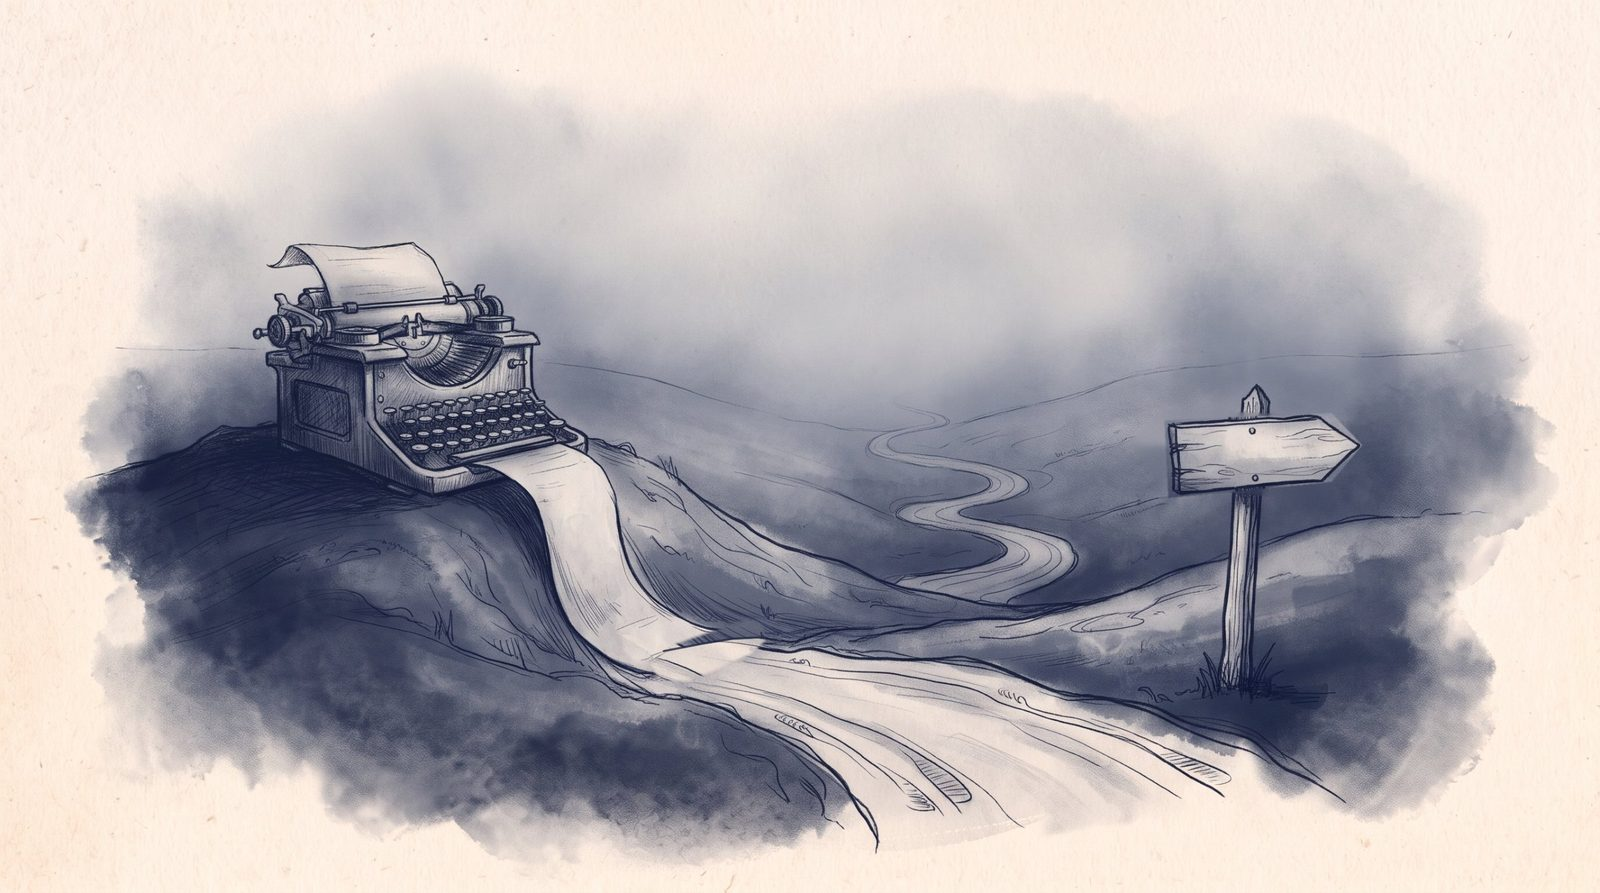
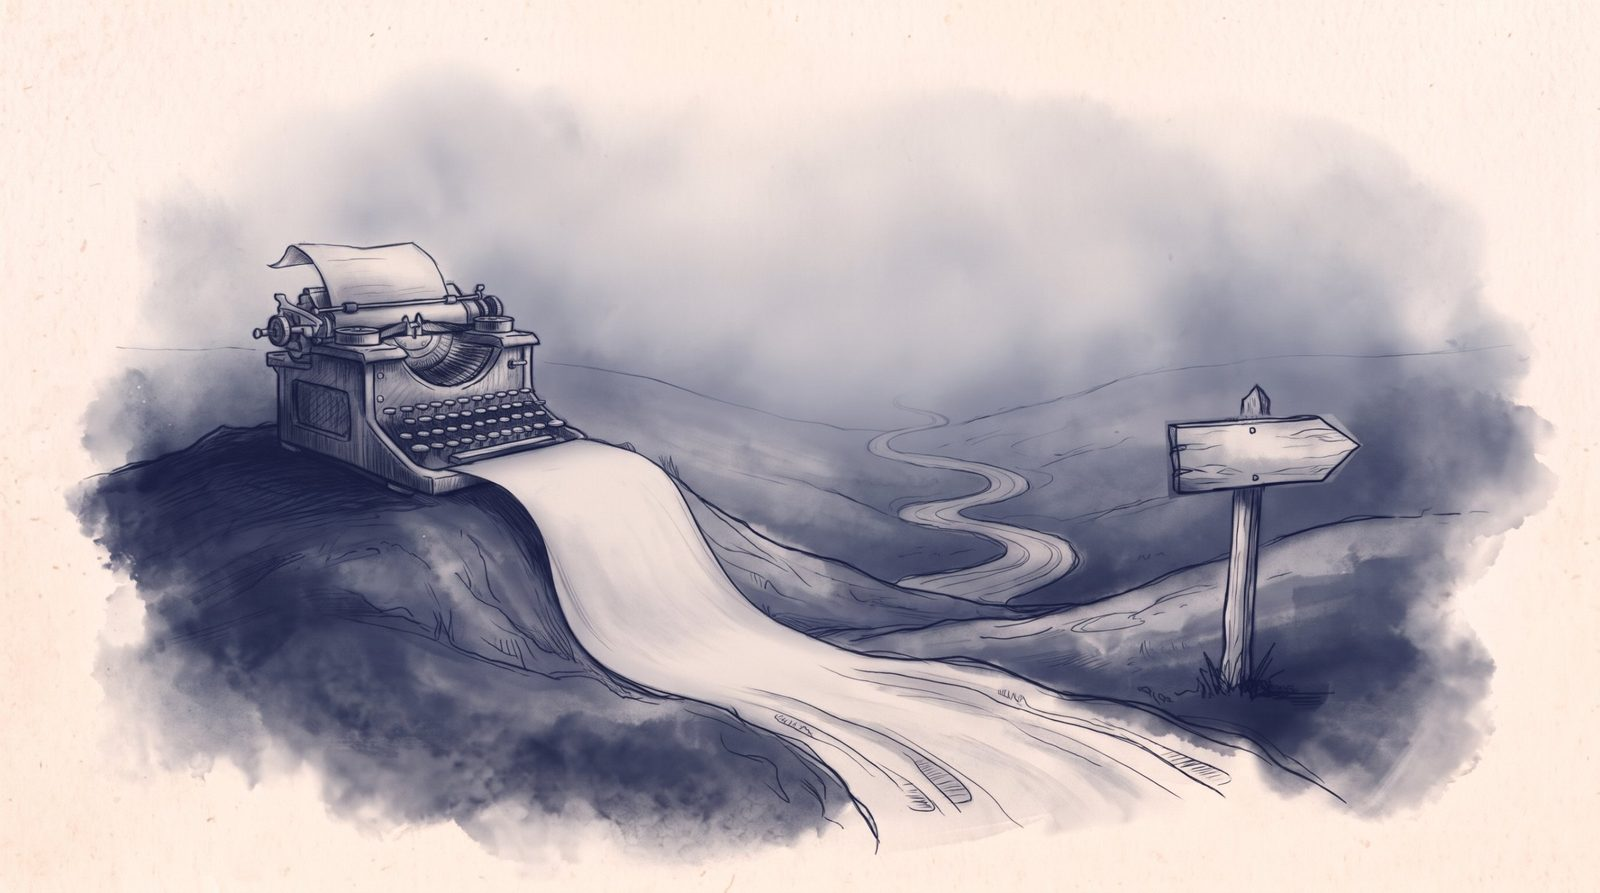
Kdo drží kroniku: nová verze psacího stroje, papír plynule navazuje na cestu
Claude-Session: https://claude.ai/code/session_01B7obWLKHHEWxurZ5a1svnf

diff --git a/docs/obrazky-putovani.md b/docs/obrazky-putovani.md
@@ -25,7 +25,7 @@ Stav 2026-11-23: styl nalezený po pěti kolech zkoušek (náhled `/putovani/nav
 - Masky: `maska/<slug>-N.png` podle tuše pro tmavý motiv (`python3 scripts/ink-masks.py`, pak zkopírovat z `navrh-obrazku/maska/`, nebo upravit cestu ve skriptu), `maska/freska.png` obecná.
 - Které putování obrázky má: `READY` v `src/lib/trail-images.ts`. Obrázky se ukážou jen u schválené eseje.
 - Rejstřík `/putovani/` má rozvržení karet ve dvou sloupcích s obrázkem nahoře (C, vybráno ze tří variant: A obraz za textem, B střídavé desky). Dokud nemají obrázky všechna putování, stojí vedle karty s obrázkem textové karty.
-- Na webu (2026-11-23): Hra ví, že ji hraješ (městečko na jevišti s roztrženým namalovaným nebem; postavička vylezlá z ilustrace v knize; stín, který vypadl z obrazu na podlahu); Na mrtvole boha (tři: prázdný plášť na trůnu držený provazy davu; trůn, kterým prorůstá bříza; jablko s žebry místo jádřince); Netvor v zrcadle (zatím jeden: stopy ve sněhu, které se z bot mění v tlapy); Mluví už jen mrtví (tři: prázdný kabát, který ukazuje cestu; můra s křídly z deníku; potopená hlava sochy, z níž stoupají listy dopisu k loďce); Uvězněni v kruhu (tři: klíč stočený do kruhu se stínem rovného klíče; vajíčko ve vajíčku; z kouře dohořelé sirky nová sirka); Bohové jako břemeno (katedrála ze žeber, kamenné víčko); Město, které dýchá (domy, které se otáčejí za chodcem; most z dlažby, kořenů, copů a prádla); Dům, ze kterého nejde odejít (měsíc jako zlatá klíčová dírka nad městečkem, okno uprostřed pláně s pokojem uvnitř). Válka, kterou nikdo nevyhraje (tři obrázky: prapory z hejn ptáků, kolotoč z děl, kavalerie z rozbitých hodin se svíčkou v temnu); Pod lhostejnými hvězdami (žebřík opřený o nebe s prázdnými botami a lucernou, gramofon, ze kterého se sypou hvězdy, u táboráku); Kdo za to může? (tři: prázdná rukavice ukazuje na zrcátko a odraz ukazuje zpět na diváka; koberec, pod jehož rohem je jáma se schody a koště z brků; z hranice srolovaných dopisů odplouvá kouř jako spící beránek, 2026-11-25); Kdo se to probudil? (tři: zamlžené zrcadlo nad umyvadlem, v jehož setřeném pruhu je další zrcadlo; dvě stejná křesla v pokoji rozděleném sklem, které prochází mincí na hraně; sklenice s pulcem, jehož stín na zdi jsou chapadla; 2026-11-25); Prokleté dědictví (tři: kolébka s korunou, jejíž stín je rakev, křížek na koruně vyretušovaný; řetěz z praskliny v zemi s otevřeným dětským poutem, hnědý nádech řetězu převedený do indiga; šperkovnice s náhrdelníkem z mléčných zubů; 2026-11-25); Křehká hranice svobodné vůle (tři: koleje shora, které se u výhybky rozdělí a zase spojí kolem kulatého jezírka, takže tvoří oko; prázdný obojek s vodítkem napnutým do mraků; trhací kalendář s prázdnými listy, jeden právě utržený, původně k jinému tématu, majitel ho přidal; 2026-11-25); Ráj, který se nepovedl (tři, poprvé celky místo předmětu, na pokyn majitele velký motiv a paradox: monumentální schodiště, které se v oblouku vrací zpátky do země (titulní, majitel 2026-11-26); nekonečně dlouhý prostřený stůl v poušti, zavátý dunou; vymyšlený zazděný oblouk se sluncem, kolem jehož boku je v dlažbě vyšlapaná pěšina; 2026-11-25); Logo nad troskami (tři, satira: atomový hřib ztuhlý v kancelářskou budovu s otáčecími dveřmi a ostříhaným trávníkem v troskách; hřbitov, kde místo náhrobků stojí parkovací automaty; opuštěný vozík prodavače mraků na provázcích s prázdnými cenovkami pod holým nebem; 2026-11-26); Smích nad propastí (tři: banánová slupka na samé hraně útesu nad propastí; ostnatý plot se strážní věží vyzdobený girlandami a balonky, jeden balonek splasklý na ostnu; prstem nakreslený úsměv na zamlženém okénku bunkru, ze kterého stéká kondenzace; 2026-11-26); Kdo drží kroniku (tři, satira dějin: jezdecká socha bez hlavy, jeřáb spouští novou hlavu a vedle stojí regál s osmi různými náhradními hlavami; stohy na poli ze skartovaného papíru a skartovačka; psací stroj, jehož papír plynule přechází v cestu krajinou, s ukazatelem ve směru papíru (ukazatel otočený a napojení papíru na cestu dorovnané ručně); 2026-11-26). Postup: 5 motivů, vybrat 2. **Motivy: surrealismus a neobvyklé kompozice, klidně velké měřítko a zachycený pohyb (Magritte, Dalí), neobvyklé spojení předmětů (v duchu Magritta), jen lehce doslovné** — první kolo s doslovnými motivy (tapeta, dveře, kolébka) majitel zamítl jako nenápadité. Do promptu řádek `Mood: subtle surrealism in the spirit of Magritte: one unexpected combination, quiet and uncanny, never literal or explanatory. Rich in discoverable detail: several unexpected secondary motifs are woven into the main forms, so the viewer keeps finding new things on a second look.` Po přidání prvního obrázku obnovit kartu pro sdílení: `npm run og -- <slug> putovani` (fonty a Chromium viz CLAUDE.md). Masky: `python3 scripts/ink-masks.py public/putovani-obrazky/<slug>-1.jpg …`; když je světlý papír uprostřed součástí motivu (mezera mezi konci mostu), přidej `--fill`. Skript dělá dvě masky: `<soubor>.png` pro tmavý motiv a širokou `<soubor>-light.png` pro světlý (papír tam schová multiply a lehké vybělení `brightness(1.06) saturate(0.8)`, maska nesmí zamlžit slabé tahy; majitel 2026-11-23). Ve světlém motivu se v eseji kresba ořezává jen širokou maskou (fresková by ořízla tahy štětce nahoře a stopy u spodního okraje); v tmavém motivu (esej i rejstřík) jen fresková maska: tvar je vždy **zvlněný obdélník do ztracena**, nikdy vykrojený podle skvrn tuše (majitel 2026-11-23). Zkoušený okraj podle tahů štětce se světlým lemem majitel zamítl jako „příliš“: v tmavém motivu okraje nebudou tak působivé jako ve světlém a je to tak správně; v rejstříku zůstává i fresková (obrázek je tam oříznutý na 3 : 2).
+- Na webu (2026-11-23): Hra ví, že ji hraješ (městečko na jevišti s roztrženým namalovaným nebem; postavička vylezlá z ilustrace v knize; stín, který vypadl z obrazu na podlahu); Na mrtvole boha (tři: prázdný plášť na trůnu držený provazy davu; trůn, kterým prorůstá bříza; jablko s žebry místo jádřince); Netvor v zrcadle (zatím jeden: stopy ve sněhu, které se z bot mění v tlapy); Mluví už jen mrtví (tři: prázdný kabát, který ukazuje cestu; můra s křídly z deníku; potopená hlava sochy, z níž stoupají listy dopisu k loďce); Uvězněni v kruhu (tři: klíč stočený do kruhu se stínem rovného klíče; vajíčko ve vajíčku; z kouře dohořelé sirky nová sirka); Bohové jako břemeno (katedrála ze žeber, kamenné víčko); Město, které dýchá (domy, které se otáčejí za chodcem; most z dlažby, kořenů, copů a prádla); Dům, ze kterého nejde odejít (měsíc jako zlatá klíčová dírka nad městečkem, okno uprostřed pláně s pokojem uvnitř). Válka, kterou nikdo nevyhraje (tři obrázky: prapory z hejn ptáků, kolotoč z děl, kavalerie z rozbitých hodin se svíčkou v temnu); Pod lhostejnými hvězdami (žebřík opřený o nebe s prázdnými botami a lucernou, gramofon, ze kterého se sypou hvězdy, u táboráku); Kdo za to může? (tři: prázdná rukavice ukazuje na zrcátko a odraz ukazuje zpět na diváka; koberec, pod jehož rohem je jáma se schody a koště z brků; z hranice srolovaných dopisů odplouvá kouř jako spící beránek, 2026-11-25); Kdo se to probudil? (tři: zamlžené zrcadlo nad umyvadlem, v jehož setřeném pruhu je další zrcadlo; dvě stejná křesla v pokoji rozděleném sklem, které prochází mincí na hraně; sklenice s pulcem, jehož stín na zdi jsou chapadla; 2026-11-25); Prokleté dědictví (tři: kolébka s korunou, jejíž stín je rakev, křížek na koruně vyretušovaný; řetěz z praskliny v zemi s otevřeným dětským poutem, hnědý nádech řetězu převedený do indiga; šperkovnice s náhrdelníkem z mléčných zubů; 2026-11-25); Křehká hranice svobodné vůle (tři: koleje shora, které se u výhybky rozdělí a zase spojí kolem kulatého jezírka, takže tvoří oko; prázdný obojek s vodítkem napnutým do mraků; trhací kalendář s prázdnými listy, jeden právě utržený, původně k jinému tématu, majitel ho přidal; 2026-11-25); Ráj, který se nepovedl (tři, poprvé celky místo předmětu, na pokyn majitele velký motiv a paradox: monumentální schodiště, které se v oblouku vrací zpátky do země (titulní, majitel 2026-11-26); nekonečně dlouhý prostřený stůl v poušti, zavátý dunou; vymyšlený zazděný oblouk se sluncem, kolem jehož boku je v dlažbě vyšlapaná pěšina; 2026-11-25); Logo nad troskami (tři, satira: atomový hřib ztuhlý v kancelářskou budovu s otáčecími dveřmi a ostříhaným trávníkem v troskách; hřbitov, kde místo náhrobků stojí parkovací automaty; opuštěný vozík prodavače mraků na provázcích s prázdnými cenovkami pod holým nebem; 2026-11-26); Smích nad propastí (tři: banánová slupka na samé hraně útesu nad propastí; ostnatý plot se strážní věží vyzdobený girlandami a balonky, jeden balonek splasklý na ostnu; prstem nakreslený úsměv na zamlženém okénku bunkru, ze kterého stéká kondenzace; 2026-11-26); Kdo drží kroniku (tři, satira dějin: jezdecká socha bez hlavy, jeřáb spouští novou hlavu a vedle stojí regál s osmi různými náhradními hlavami; stohy na poli ze skartovaného papíru a skartovačka; psací stroj, jehož papír plynule přechází v cestu krajinou, s ukazatelem ve směru papíru (nakonec nová verze od majitele, kde papír na cestu navazuje sám); 2026-11-26). Postup: 5 motivů, vybrat 2. **Motivy: surrealismus a neobvyklé kompozice, klidně velké měřítko a zachycený pohyb (Magritte, Dalí), neobvyklé spojení předmětů (v duchu Magritta), jen lehce doslovné** — první kolo s doslovnými motivy (tapeta, dveře, kolébka) majitel zamítl jako nenápadité. Do promptu řádek `Mood: subtle surrealism in the spirit of Magritte: one unexpected combination, quiet and uncanny, never literal or explanatory. Rich in discoverable detail: several unexpected secondary motifs are woven into the main forms, so the viewer keeps finding new things on a second look.` Po přidání prvního obrázku obnovit kartu pro sdílení: `npm run og -- <slug> putovani` (fonty a Chromium viz CLAUDE.md). Masky: `python3 scripts/ink-masks.py public/putovani-obrazky/<slug>-1.jpg …`; když je světlý papír uprostřed součástí motivu (mezera mezi konci mostu), přidej `--fill`. Skript dělá dvě masky: `<soubor>.png` pro tmavý motiv a širokou `<soubor>-light.png` pro světlý (papír tam schová multiply a lehké vybělení `brightness(1.06) saturate(0.8)`, maska nesmí zamlžit slabé tahy; majitel 2026-11-23). Ve světlém motivu se v eseji kresba ořezává jen širokou maskou (fresková by ořízla tahy štětce nahoře a stopy u spodního okraje); v tmavém motivu (esej i rejstřík) jen fresková maska: tvar je vždy **zvlněný obdélník do ztracena**, nikdy vykrojený podle skvrn tuše (majitel 2026-11-23). Zkoušený okraj podle tahů štětce se světlým lemem majitel zamítl jako „příliš“: v tmavém motivu okraje nebudou tak působivé jako ve světlém a je to tak správně; v rejstříku zůstává i fresková (obrázek je tam oříznutý na 3 : 2).
 
 ## Jak generovat
 
